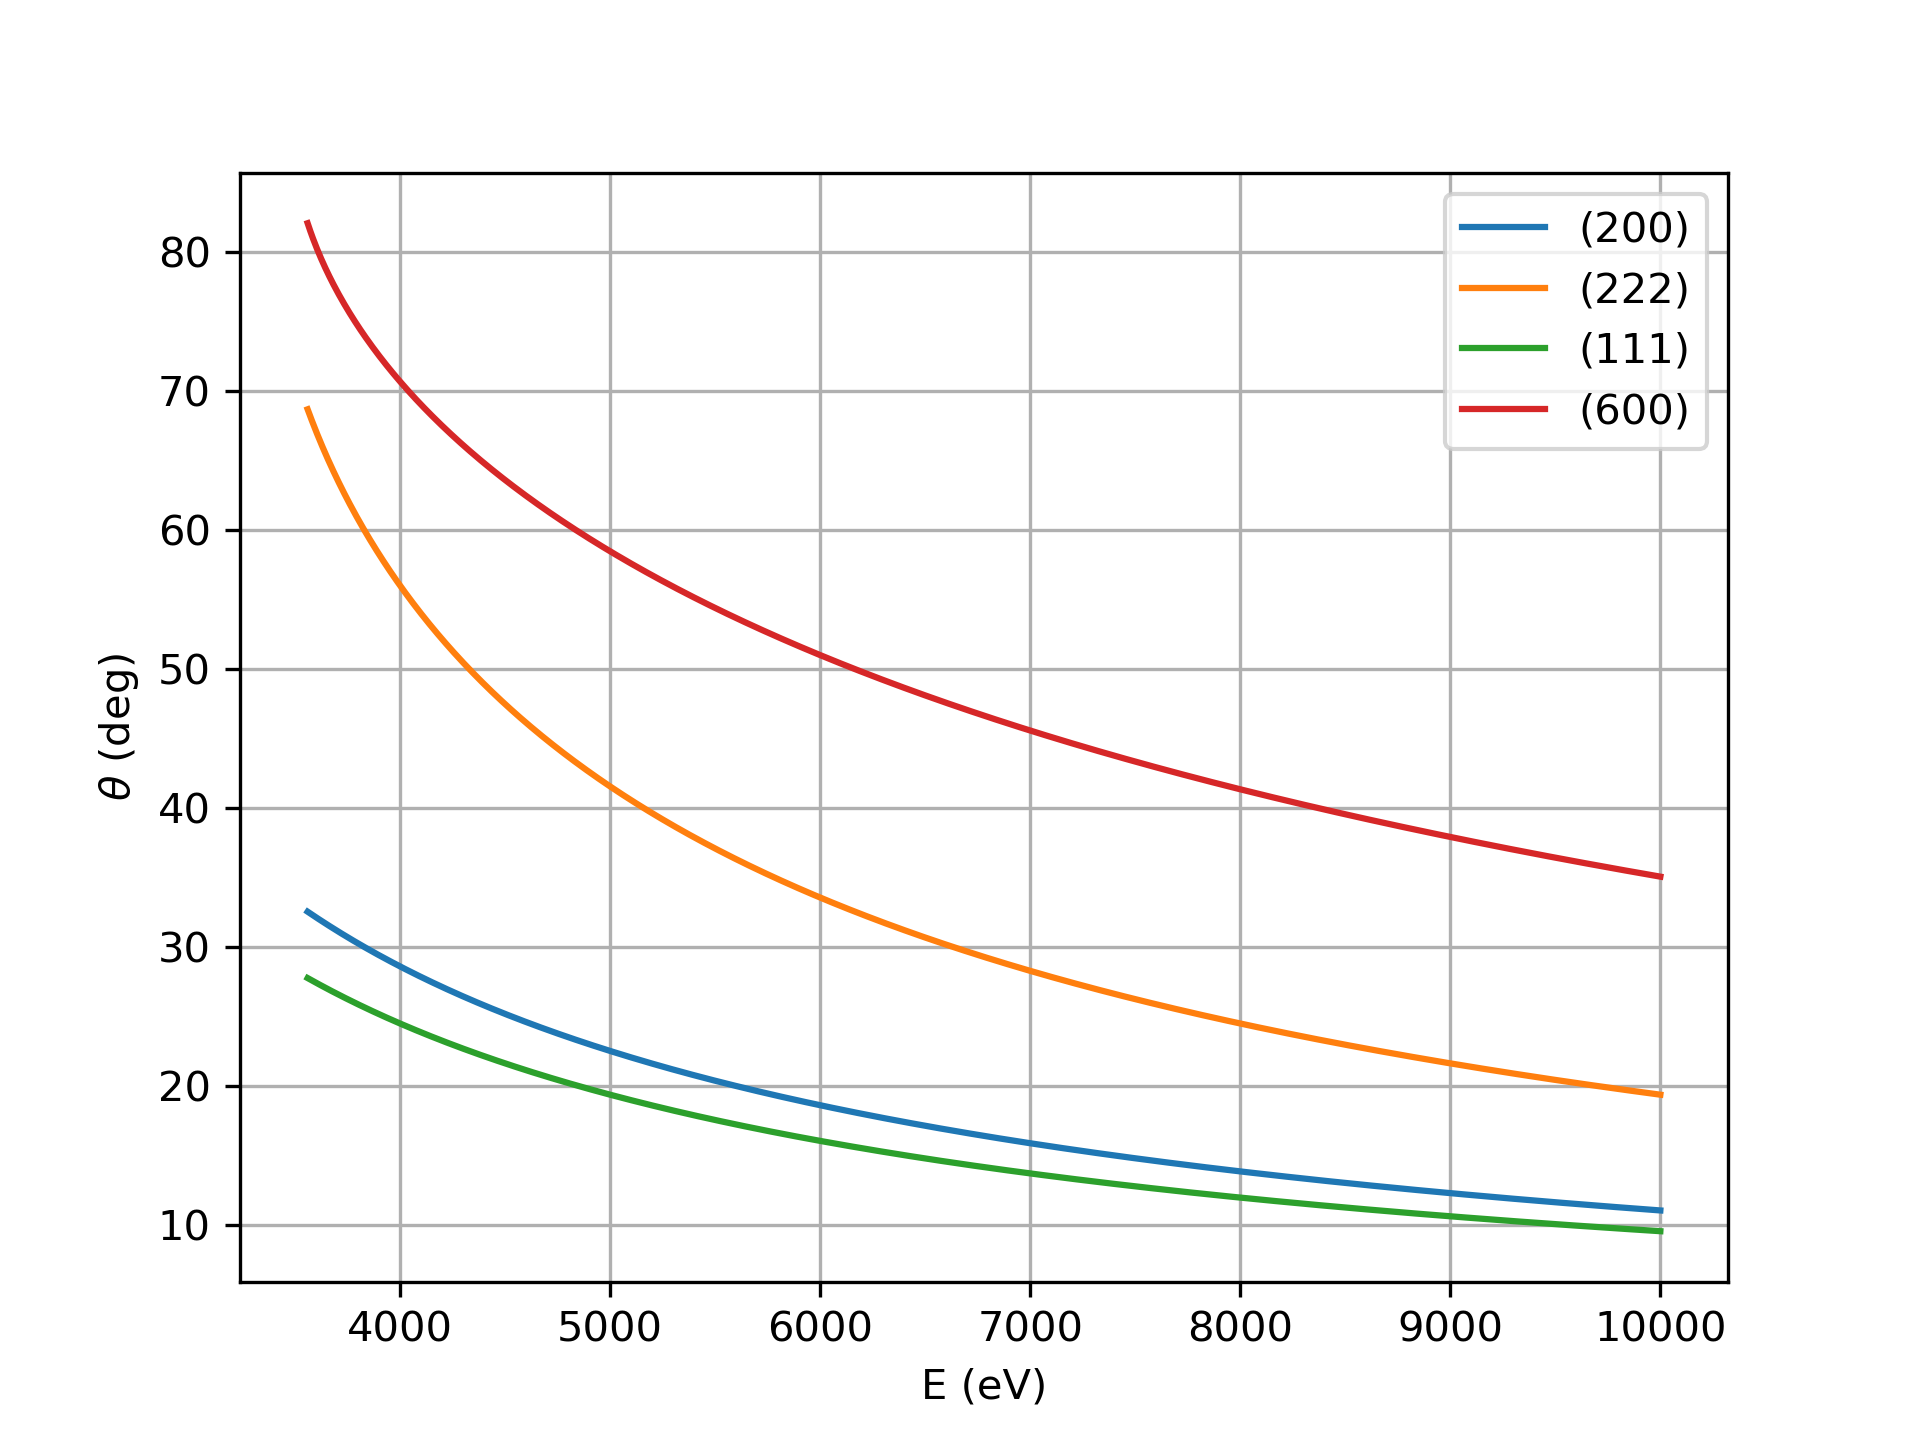
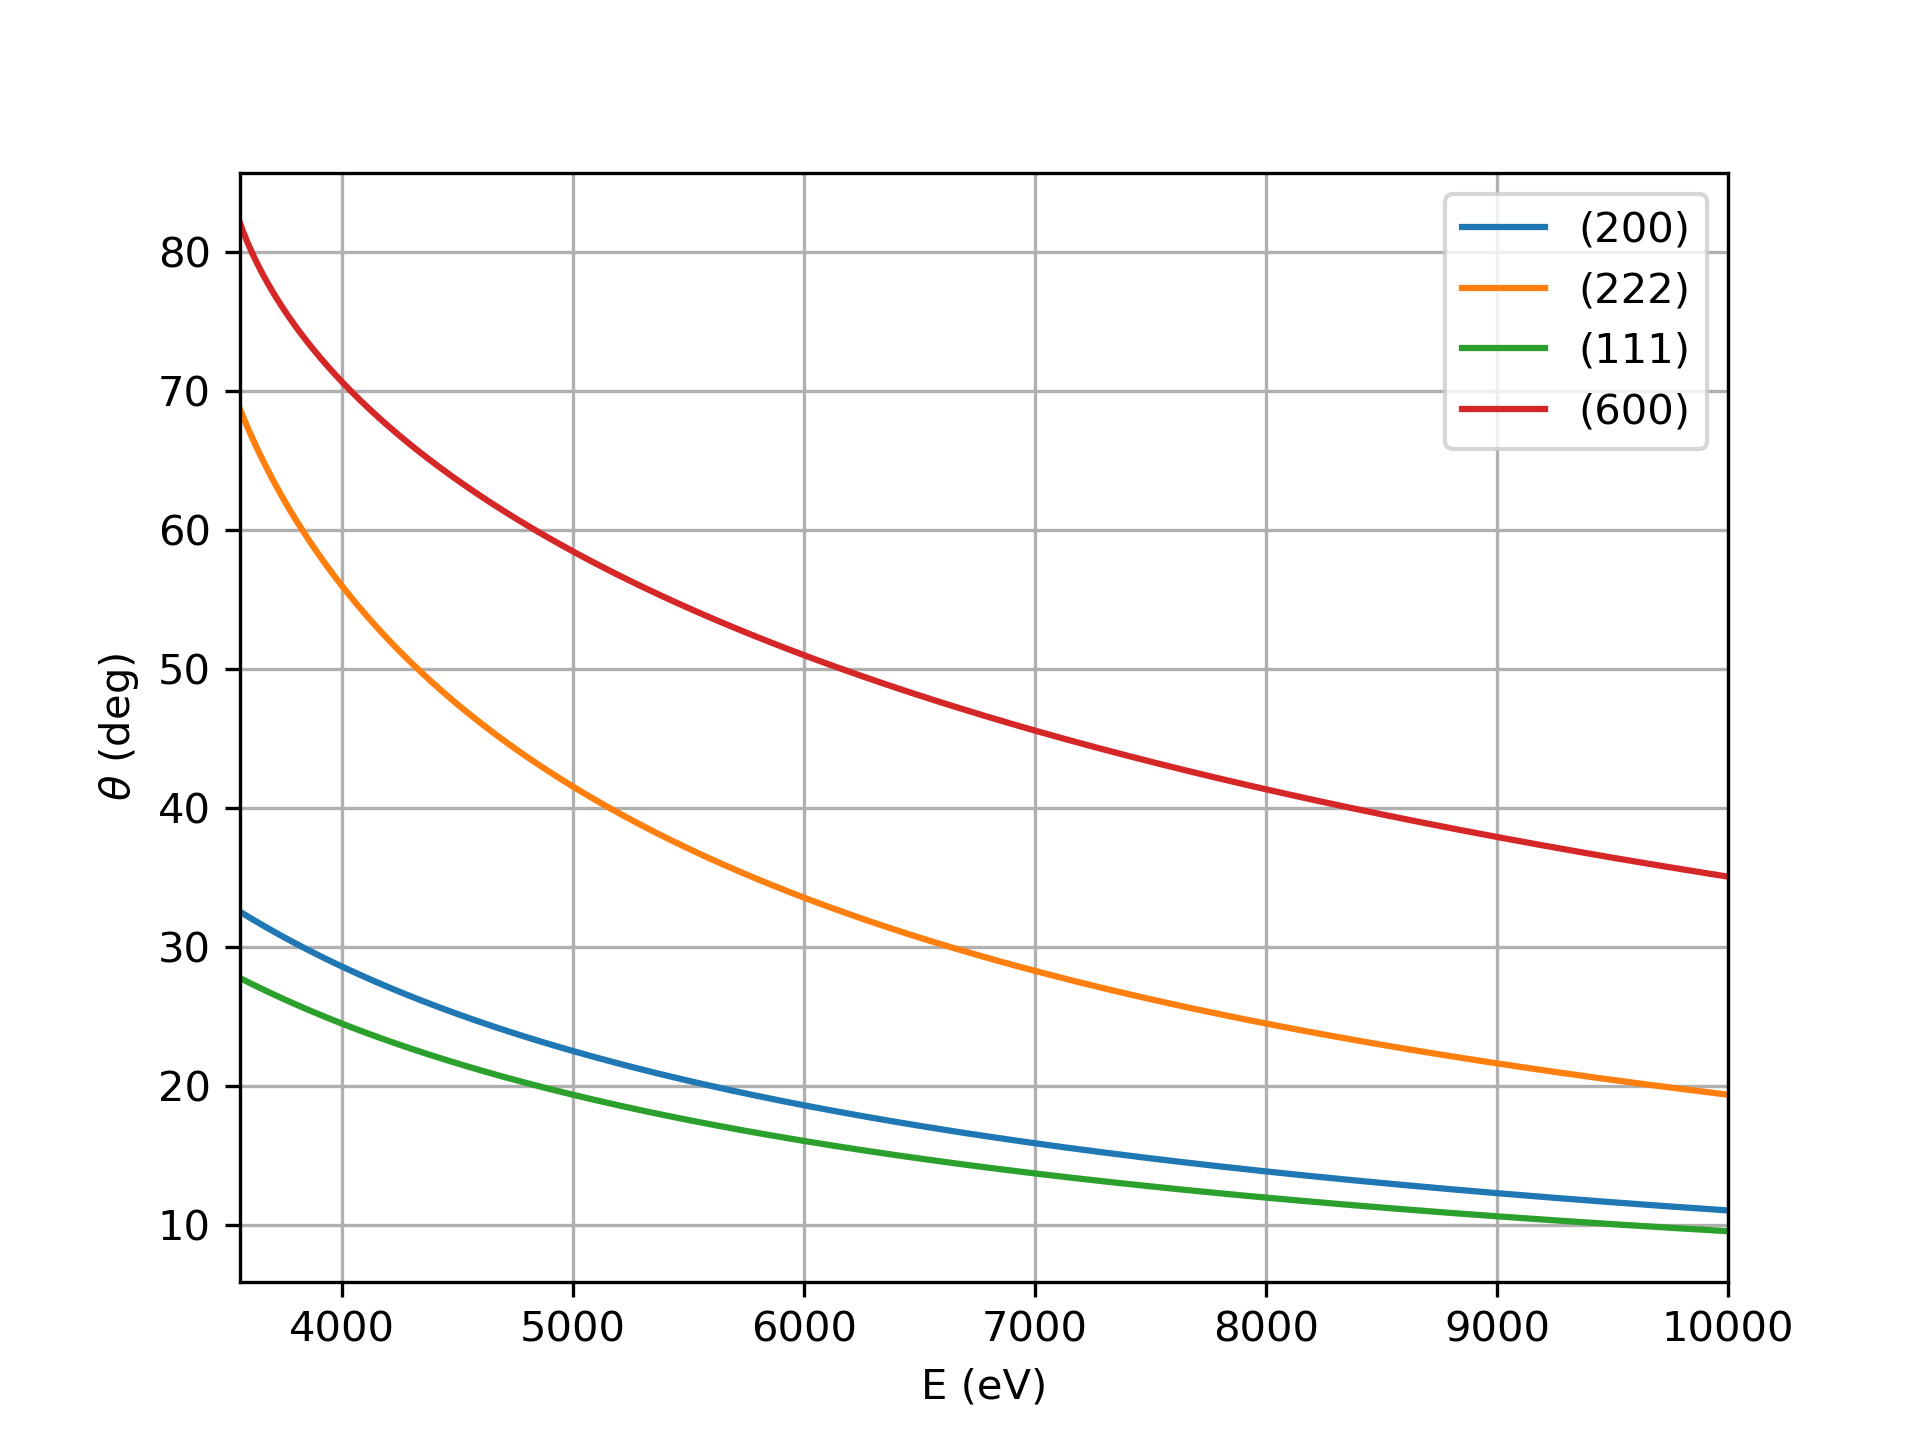
bump

diff --git a/py_scripts/xrd.py b/py_scripts/xrd.py
@@ -1,8 +1,10 @@
 #%% Loading packages
 import numpy as np 
 import matplotlib.pyplot as plt 
-#from math import sqrt, sin, asin, pi 
-import math
+from math import sqrt, asin, pi 
+
+#import math
+#from numpy.core.function_base import linspace 
 
 #%% Constants 
 a = 6.479E-10 # Lattice constant of InSb at 300 K (Landolt-Börnstein) [m]
@@ -18,7 +20,9 @@ hc = h_Planck * c # [eV*m]
 def d_hkl(h,k,l):
     return a/sqrt(h**2 + k**2 + l**2)
 
-print(d_hkl(2,2,2))
+# Should really use a list of h,k,l:
+# h = [2,2,1,6]; k = [0,2,1,0]; l = [0, 2, 1, 0]
+# print(d_hkl(2,2,2))
 
 # %% Bragg's law respect to theta_hkl
 def theta_hkl(h,k,l):
@@ -31,12 +35,13 @@ def theta_hkl(h,k,l):
 
 Energy = np.linspace(3.56, 10, 1000)*1000 # Available energy range at FemtoMAX
 
-# Interested reflections
+# Interested reflections:
 # "Forbidden" 
 theta_200 = []; theta_222 = []; theta_600 = []; 
 # Comparison to the highest intensity
 theta_111 = []
 
+#These really should be functions ...
 for E in Energy:
     theta_200.append(theta_hkl(2,0,0))
     theta_222.append(theta_hkl(2,2,2))
@@ -47,7 +52,7 @@ Energy600 = np.linspace(5.8, 10, 1000)*1000
 for E in Energy600:
     theta_600.append(theta_hkl(6,0,0))
 
-# Data tip and axis i.e., fig, ax plt.subplots(1)
+# Data tip and axis i.e., fig, ax plt.subplots(1), markers format string
 plt.figure(1)
 plt.plot(Energy, theta_200, label='(200)')
 plt.plot(Energy, theta_222, label='(222)')
@@ -57,11 +62,127 @@ plt.plot(Energy, theta_600, label='(600)')
 #plt.title('title')
 plt.xlabel('E (eV)')
 plt.ylabel(r'$\theta$ (deg)')
+plt.xlim(3.56*1000,10*1000)
 plt.legend()
 plt.grid()
 plt.savefig('figures/theta(E,h,k,l).png', format='png', dpi=300)
 plt.show()
 
-# %%
+#Probably start a new script from here...
+
+# %% Scattering vectors for different diffraction angles - plot as 
+# vertical lines to the structure factor difference
+# \delta k = q = G Laue for diffraction
+
+def q_hkl(h,k,l):
+    return 2*pi/(d_hkl(h,k,l)*1E10) #In Ångströms
+
+# q_200 = q_hkl(2,0,0)
+# q_222 = q_hkl(2,2,2) # = q_2-22
+# q_600 = q_hkl(6,0,0)
+
+#q_111 = q_hkl(1,1,1)
+
+# %% Atomic form factor for the structure factor
+# Ref. http://lampx.tugraz.at/~hadley/ss1/crystaldiffraction/atomicformfactors/formfactors.php and reference therein (Journal of crystallography)
+
+#Indium atom
+def f_In(q):
+    # Constants for the Gaussian parametrization of the atomic form factor
+    a_In = np.array([19.1624, 18.5596, 4.2948, 2.0396])
+    b_In = np.array([0.5476, 6.3776, 25.8499, 92.8029])
+    c_In = 4.9391
+    return np.sum(a_In*np.exp(-1*b_In*(q/(4*pi))**2)) + c_In
+
+print(f_In(q_hkl(2,2,2)))
+
+#Antimony atom 
+def f_Sb(q):
+    # Constants for the Gaussian parametrization of the atomic form factor
+    a_Sb = np.array([19.6418, 19.0455, 5.0371, 2.6827])
+    b_Sb = np.array([5.3034, 0.4607, 27.9074, 75.2825])
+    c_Sb = 4.5909
+    return np.sum(a_Sb*np.exp(-1*b_Sb*(q/(4*pi))**2)) + c_Sb
+
+print(f_Sb(q_hkl(2,0,0)))
+#print(f_Sb(2,0,0))
+
+#Delete later
+# a_In = np.array([19.1624, 18.5596, 4.2948, 2.0396])
+# b_In = np.array([0.5476, 6.3776, 25.8499, 92.8029])
+# c_In = 4.9391
+
+# f_In_200 = np.sum(a_In*np.exp(-1*b_In*(q_hkl(2,0,0)/(4*pi))**2)) + c_In
+# f_In_222 = np.sum(a_In*np.exp(-1*b_In*(q_hkl(2,2,2)/(4*pi))**2)) + c_In
+# f_In_600 = np.sum(a_In*np.exp(-1*b_In*(q_hkl(6,0,0)/(4*pi))**2)) + c_In
+
+# f_In_111 = np.sum(a_In*np.exp(-1*b_In*(q_hkl(1,1,1)/(4*pi))**2)) + c_In
+
+# #Antimony atom
+# a_Sb = np.array([19.6418, 19.0455, 5.0371, 2.6827])
+# b_Sb = np.array([5.3034, 0.4607, 27.9074, 75.2825])
+# c_Sb = 4.5909
+
+# f_Sb_200 = np.sum(a_Sb*np.exp(-1*b_Sb*(q_hkl(2,0,0)/(4*pi))**2)) + c_Sb
+# f_Sb_222 = np.sum(a_Sb*np.exp(-1*b_Sb*(q_hkl(2,2,2)/(4*pi))**2)) + c_Sb
+# f_Sb_600 = np.sum(a_Sb*np.exp(-1*b_Sb*(q_hkl(6,0,0)/(4*pi))**2)) + c_Sb
+
+# f_Sb_111 = np.sum(a_Sb*np.exp(-1*b_Sb*(q_hkl(1,1,1)/(4*pi))**2)) + c_Sb
+#### DELETE ABOVE
+
+# %% Plotting atomic form factors over a q-range
+
+f_In1 = []; f_Sb1 = []
+
+interval = np.linspace(0,25,10000)
+for q in interval:
+    f_In1.append(f_In(q))
+    f_Sb1.append(f_Sb(q))
+    # print(f_Sb(q))
+    # print(f_In(q))
+
+f_In_arr = np.array(f_In1)
+f_Sb_arr = np.array(f_Sb1)
+
+plt.figure(2)
+plt.plot(interval, f_In_arr, label="$f_{In}$")
+plt.plot(interval, f_Sb_arr, label="$f_{Sb}$")
+#r'$\theta$ (deg)'
+#plt.title('title')
+plt.xlabel('$q$ (Å$^{-1}$)')
+#r'$\theta$ (deg)'
+plt.ylabel('$f(q)$')
+plt.legend()
+plt.xlim(0, 25)
+#plt.ylim(0, max(f_In_arr))
+plt.grid()
+plt.savefig('figures/form_factors.png', format='png', dpi=300)
+plt.show()
+
+# Difference between the form factors
+# The structure factor is of the form: F_hkl = 4(f_In - f_Sb) for reflections:
+# h + k + l = 4N + 2 where N is an integer
+
+#plt.figure(3)
+# fig, ax = plt.subplots()
+# #ax.tick_params(direction='in')
+# ax.plot(interval, f_Sb_arr - f_In_arr)
+# #Secondary axis
+# secax = ax.secondary_xaxis('top')
+# secax.set_xticks([q_hkl(2,0,0), q_hkl(2,2,2), q_hkl(6,0,0)], ['1','2','3'])
+# ax.grid()
+# plt.show()
+
+plt.figure(4)
+plt.plot(interval, f_Sb_arr - f_In_arr)
+plt.vlines(q_hkl(2,0,0), 0, 2, colors='r', linestyles='--', label='$q_{200}$')
+plt.vlines(q_hkl(2,2,2), 0, 2, colors='g', linestyles='--', label='$q_{222}$')
+plt.vlines(q_hkl(6,0,0), 0, 2, colors='b', linestyles='--', label='$q_{600}$')
+plt.legend()
+plt.xlim(0, 25)
+plt.ylim(0, f_Sb_arr[0] - f_In_arr[0])
+plt.grid()
+plt.savefig('figures/delta_form_factors.png', format='png', dpi=300)
+plt.show()
 
 # %%
